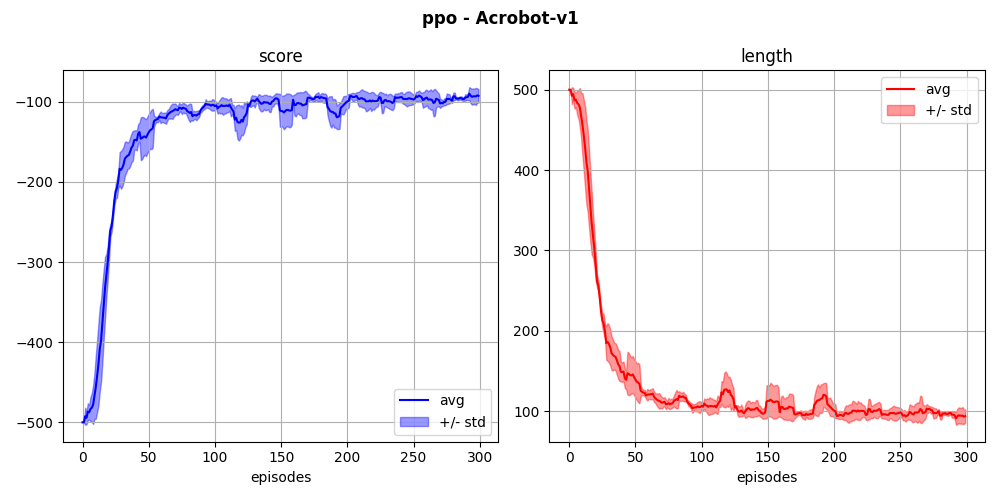
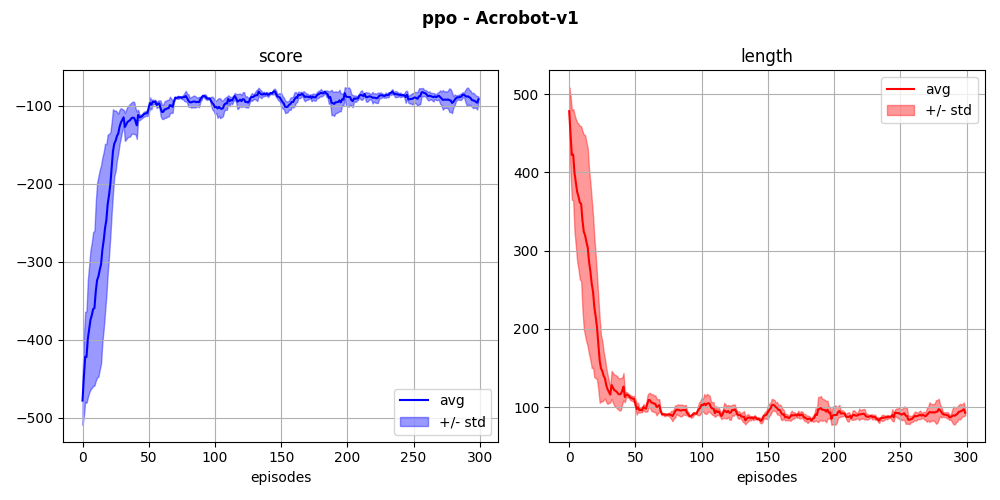
Modified continuous envs paramters

Changed region(s): [[0.0, 0.18, 0.992, 0.87], [0.031, 0.18, 0.062, 0.24]]

diff --git a/dragonfly/src/policy/normal.py b/dragonfly/src/policy/normal.py
@@ -22,7 +22,7 @@ class normal(base_policy):
         if (pms.network.heads.final[0] != "tanh"):
             warning("normal", "__init__",
                     "Final activation for mean network of normal policy is not tanh")
-        if (pms.network.heads.final[1] != "softplus"):
+        if (pms.network.heads.final[1] != "sigmoid"):
             warning("normal", "__init__",
                     "Final activation for dev network of normal policy is not sigmoid")
 
@@ -47,8 +47,8 @@ class normal(base_policy):
     def get_actions(self, obs):
 
         act, lgp = self.sample(obs)
-        #act     = tf.clip_by_value(act, -1.0, 1.0)
-        act      = tf.tanh(act)
+        act     = tf.clip_by_value(act, -1.0, 1.0)
+        #act      = tf.tanh(act)
         act      = np.reshape(act.numpy(), (self.store_dim))
 
         return act, lgp

diff --git a/dragonfly/tst/policy/test_normal.py b/dragonfly/tst/policy/test_normal.py
@@ -27,6 +27,6 @@ def test_normal():
     act, lgp = policy.get_actions(obs)
     print("Actions:",act)
 
-    assert(np.all(act < 1.0))
-    assert(np.all(act >-1.0))
+    assert(np.all(act <= 1.0))
+    assert(np.all(act >=-1.0))
     print("")
